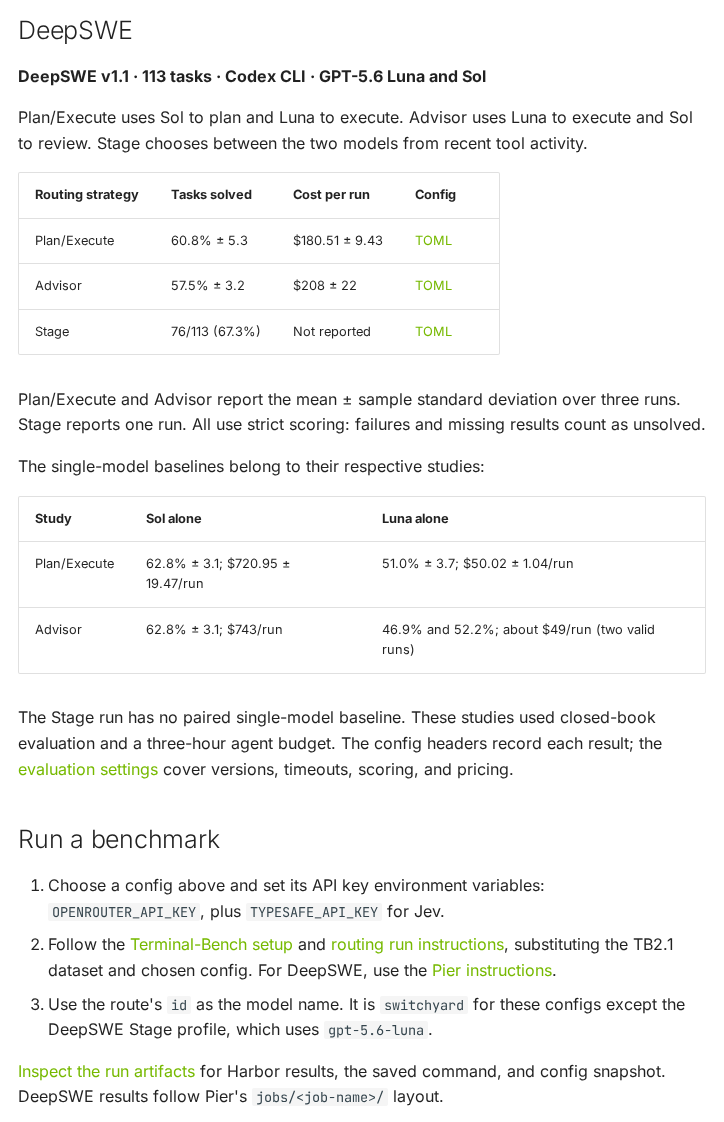
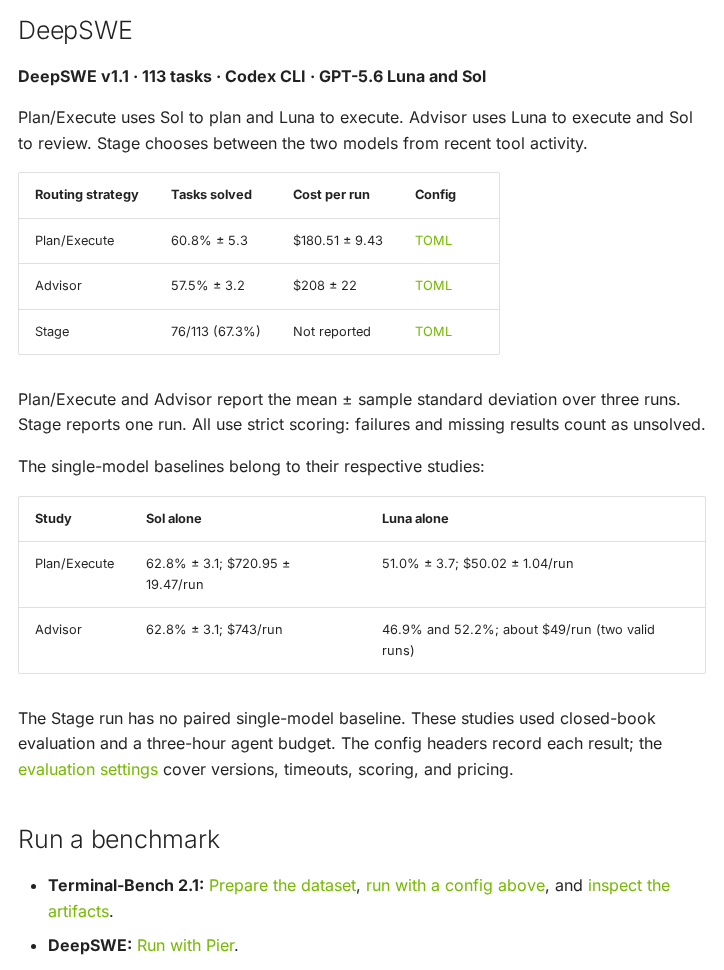
docs(benchmarks): refresh review screenshots

Changed region(s): [[0.0304, 0.3402, 0.9724, 0.9897], [0.0304, 0.0, 0.9724, 0.3093], [0.7293, 0.4948, 0.7901, 0.5258]]

diff --git a/docs/routing_algorithms/model_selection.md b/docs/routing_algorithms/model_selection.md
@@ -140,17 +140,13 @@ serving stack.
 
 | Efficient tier | Capable tier | Strategy | Workload | Result | Single-model anchors |
 |---|---|---|---|---|---|
-| GPT-5.6 Luna | GPT-5.6 Sol | [`stage_router`](../../benchmark/routing-profiles/deepswe-v11-stage-router-luna-sol.toml): `efficient_first`, threshold 0.5, window 5, hold 2, handoff note | DeepSWE v1.1, 113 tasks, Codex CLI, k=1 | 76/113 solved (67.3% strict) | None in the same run |
-| GPT-5.6 Luna, executes | GPT-5.6 Sol, plans | [`plan_execute`](../../benchmark/routing-profiles/deepswe-v11-plan-execute-luna-sol.toml), both at effort `max` | DeepSWE v1.1, 113 tasks, Codex CLI, k=3 | 60.8% ± 5.3 at $180.51 ± 9.43 per run | Sol alone 62.8% ± 3.1 at $720.95. Luna alone 51.0% ± 3.7 at $50.02. |
-| GPT-5.6 Luna, executes | GPT-5.6 Sol, reviews | [`advisor`](../../benchmark/routing-profiles/deepswe-v11-advisor-gate-luna-sol.toml), both at effort `max` | DeepSWE v1.1, 113 tasks, Codex CLI, k=3 | 57.5% ± 3.2 at $208 ± 22 per run | Sol alone 62.8% ± 3.1 at $743. Luna alone 46.9% and 52.2% at about $49. |
 | Qwen3.6-35B-A3B, also the judge | Claude Opus 4.7 | `llm_classifier` custom, [balanced](../../benchmark/routing-profiles/tau2-telecom-custom-opus-qwen-balanced.toml) and [aggressive](../../benchmark/routing-profiles/tau2-telecom-custom-opus-qwen-aggressive.toml) | tau2-bench telecom, 114 tasks | 0.903 ± 0.071 solve rate with 45% of turns on the weak tier. 0.891 ± 0.029 with about 85%. | Within noise of the strong tier, per the profile headers |
 | Nemotron 3.5 Lightning | Claude Opus 4.8, with Gemini 3.1 Flash-Lite as judge | `llm_classifier` escalation, `confirmations = 2` | LangChain Deep Agents suite, 145 tasks, 5 runs ([report](https://www.langchain.com/blog/switchyard-agent-routing-benchmark)) | 80.0% at $3.00 per run, with 7% of calls on Opus | Opus alone 86.0% at $11.45. Nemotron alone 77.7% at $0.72. |
 
 What the rows show about model choice:
 
-- The gap between the two single models sets the room for routing. On DeepSWE,
-  Sol alone beat Luna alone by about 11 to 16 points. The plan/execute and
-  advisor arms landed between them at about a quarter of Sol's cost.
+- The gap between the two single models sets the room for routing. Compare the
+  fixed-model baselines with the routing results, as in the [DeepSWE studies](../benchmarks.md#deepswe).
 - When the efficient model is close to the capable model, escalation keeps most
   of the accuracy at a fraction of the cost. On the LangChain suite the two
   single models were 8 points apart. Routing kept 80 of the 86 points at about
@@ -163,10 +159,6 @@ Other checked-in configurations:
 - [`tb-lite-llm-classifier-opus-kimi-gemini.toml`](../../benchmark/server-configs/tb-lite-llm-classifier-opus-kimi-gemini.toml)
   (Claude Opus 4.7 strong, Kimi K2.7 code weak, Gemini 3.5 Flash judge) is a
   smoke test. It has no published result.
-- [`tb21-escalation-opus-glm-deepseek.toml`](../../benchmark/routing-profiles/tb21-escalation-opus-glm-deepseek.toml)
-  (Claude Opus 4.8 strong, GLM 5.2 weak, DeepSeek V4 Flash judge) is the
-  escalation configuration used for the v0.2.0 Terminal-Bench 2.1 runs. Its
-  header links the post about those runs.
 
 ## Counter-examples
 

diff --git a/benchmark/README.md b/benchmark/README.md
@@ -340,7 +340,8 @@ DeepSWE uses Harbor's task format but its own runner, [Pier](https://github.com/
 (required since v1.1 for the separate-verifier/collect-hook pattern). It is not part of
 `run-baseline.sh`.
 
-See [DeepSWE v1.1 qualification settings](DEEPSWE_V11_QUALIFICATION.md) for the exact
+See [DeepSWE results](../docs/benchmarks.md#deepswe) for task completion and cost comparisons,
+and [DeepSWE v1.1 qualification settings](DEEPSWE_V11_QUALIFICATION.md) for the exact
 versions, timeouts, scoring rules, and routing profiles used for qualification.
 
 ```bash
@@ -382,12 +383,7 @@ pier run -p benchmark/datasets/deep-swe/tasks --agent codex \
 instead. Binding port 443 needs elevated privileges on most Linux hosts (`sudo`, or
 `setcap 'cap_net_bind_service=+ep'` on the binary).
 
-Advisor-gate routing (GPT-5.6 Luna executes; GPT-5.6 Sol reviews its "done" claims, up to
-three per task) measured 57.5% +/- 3.2 on the full 113 tasks (k=3, closed-book). The profile
-keeps the routing parameters exactly as run and reaches both models through OpenRouter, so it
-needs only `OPENROUTER_API_KEY`. The measured runs had Codex at reasoning effort `max`
-(`model_reasoning_effort = "max"` in the agent's Codex config); the profile forces `max` on
-both models server-side regardless:
+Run the Advisor profile. It sets reasoning effort to `max` on both models:
 
 ```bash
 export OPENROUTER_API_KEY="..."
@@ -400,11 +396,7 @@ pier run -p benchmark/datasets/deep-swe/tasks --agent codex \
   --ae OPENAI_API_KEY=unused
 ```
 
-Plan/execute routing uses GPT-5.6 Sol for repository inspection and planning, then hands the
-full trajectory to GPT-5.6 Luna after the first mutation. It measured 60.8% +/- 5.3 at
-$180.51 +/- 9.43 per run on the full closed-book benchmark (k=3). The profile preserves the
-exact planning prompt and routing policy, with provider settings adapted from NVIDIA Inference
-Hub to OpenRouter:
+Run the Plan/Execute profile:
 
 ```bash
 export OPENROUTER_API_KEY="..."
@@ -418,11 +410,7 @@ pier run -p benchmark/datasets/deep-swe/tasks --agent codex \
   --ae OPENAI_API_KEY=unused
 ```
 
-The qualified stage-router profile (GPT-5.6 Luna efficient tier, GPT-5.6 Sol capable tier) solved
-76/113 tasks (67.3% strict) on the full closed-book benchmark. Its routing policy is published
-with OpenRouter provider settings so the file runs as-is with `OPENROUTER_API_KEY`. The header
-records the Switchyard commit, model ids, harness inputs, run id, and the one crashed task. The
-profile's public route id is `gpt-5.6-luna`, matching the qualification run:
+Run the Stage profile. Its public route ID is `gpt-5.6-luna`:
 
 ```bash
 export OPENROUTER_API_KEY="..."

diff --git a/docs/benchmarks.md b/docs/benchmarks.md
@@ -17,11 +17,7 @@ also measured on its own. The escalation route uses **DeepSeek V4 Flash** as its
 
 [Published comparison and background](https://developer.nvidia.com/blog/route-ai-agent-workloads-across-models-with-nvidia-nemo-switchyard/).
 
-| Routing strategy | Config |
-| --- | --- |
-| LLM classification | Coming soon |
-| Stage | Coming soon |
-| Escalation | [TOML](../benchmark/routing-profiles/tb21-escalation-opus-glm-deepseek.toml) |
+[Escalation config](../benchmark/routing-profiles/tb21-escalation-opus-glm-deepseek.toml)
 
 ### Jev task routing
 
@@ -69,14 +65,7 @@ scoring, and pricing.
 
 ## Run a benchmark
 
-1. Choose a config above and set its API key environment variables: `OPENROUTER_API_KEY`,
-   plus `TYPESAFE_API_KEY` for Jev.
-2. Follow the [Terminal-Bench setup](../benchmark/README.md#one-time-setup) and
-   [routing run instructions](../benchmark/README.md#run-with-switchyard-routing), substituting
-   the TB2.1 dataset and chosen config. For DeepSWE, use the
-   [Pier instructions](../benchmark/README.md#deepswe-v11).
-3. Use the route's `id` as the model name. It is `switchyard` for these configs except the
-   DeepSWE Stage profile, which uses `gpt-5.6-luna`.
-
-[Inspect the run artifacts](../benchmark/README.md#inspect-a-run) for Harbor results, the
-saved command, and config snapshot. DeepSWE results follow Pier's `jobs/<job-name>/` layout.
+- **Terminal-Bench 2.1:** [Prepare the dataset](../benchmark/README.md#one-time-setup),
+  [run with a config above](../benchmark/README.md#run-with-switchyard-routing), and
+  [inspect the artifacts](../benchmark/README.md#inspect-a-run).
+- **DeepSWE:** [Run with Pier](../benchmark/README.md#deepswe-v11).

diff --git a/README.md b/README.md
@@ -92,10 +92,7 @@ The [routing overview](docs/routing_algorithms/overview.md) retains the full cat
 
 ## Evaluation and reference
 
-[![Task completion versus cost for Switchyard classification, stage, escalation, and Jev task routing, compared with Opus 4.8 and GLM 5.2 single-model baselines.](assets/switchyard-cost-accuracy.svg)](docs/benchmarks.md#terminal-bench-21)
-
-[Browse benchmark results and configs](docs/benchmarks.md) for Terminal-Bench 2.1 and DeepSWE.
-The Jev point is a separate recorded-run replay; the benchmark page explains its evaluation setup.
+[Compare benchmark results and configs](docs/benchmarks.md) for Terminal-Bench 2.1 and DeepSWE.
 For latency and routing overhead testing, see [Soak Testing](docs/operations/soak_test.md).
 
 ### Further reading
